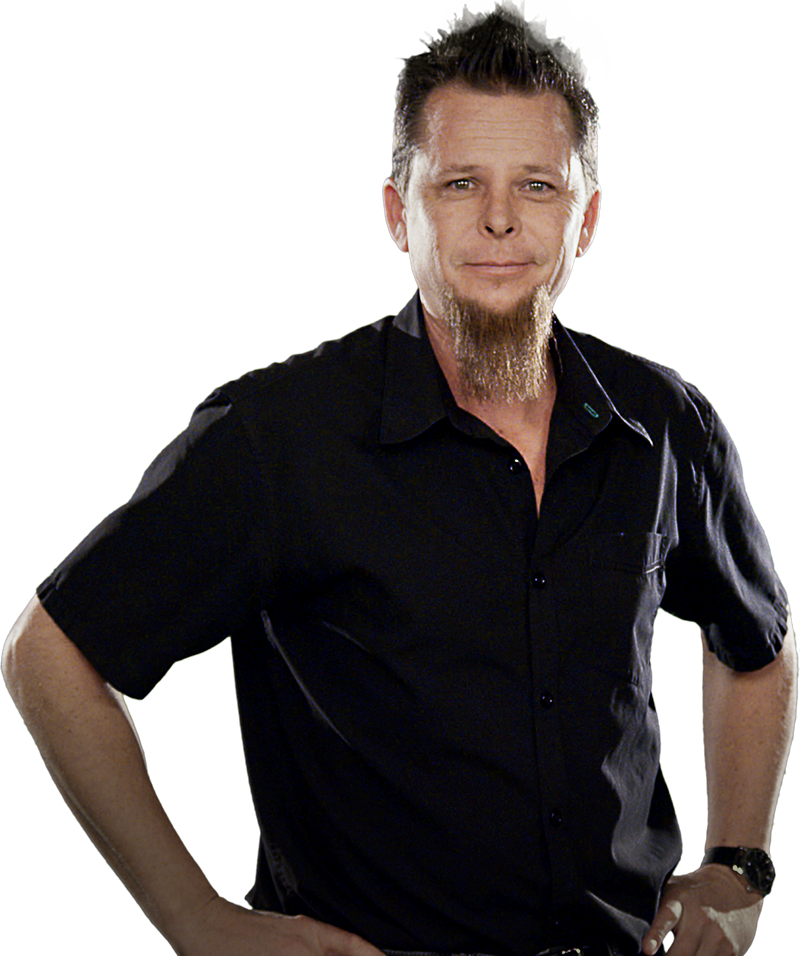
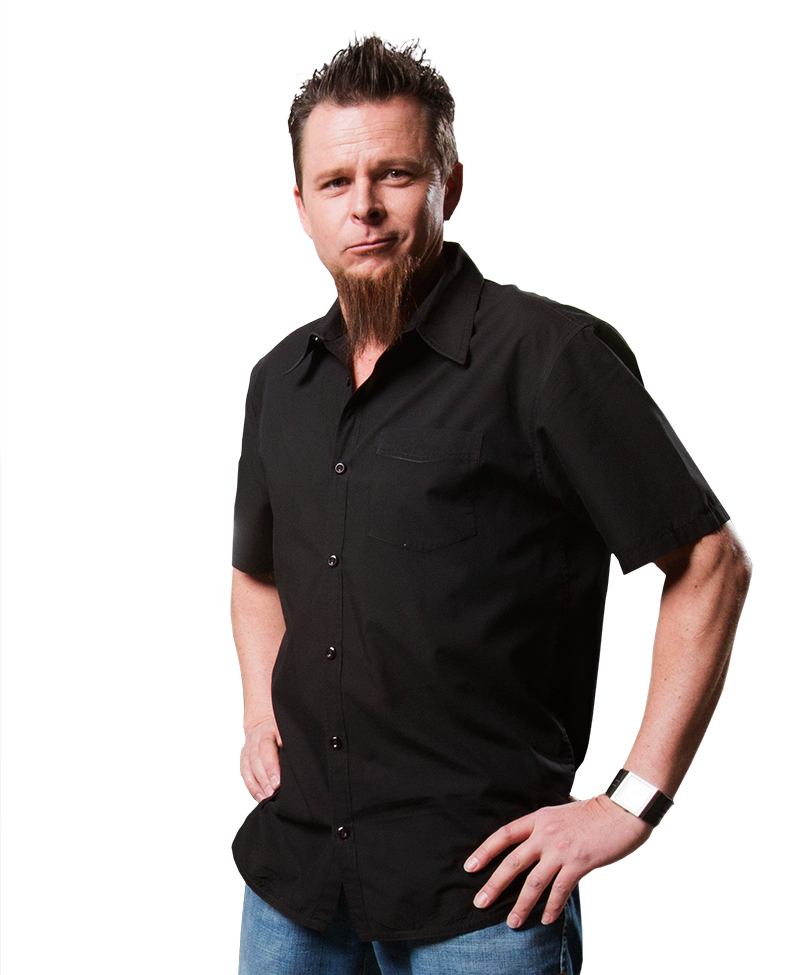
New talent images, proofing updates

diff --git a/index.html b/index.html
@@ -67,7 +67,7 @@
                 <p><span class="blue"></span> Smart Drivers</p>
               </div>
             </div>
-            <p class="disclaimer">*Velocity will donate $1 to MADD for each pledge up to $10,000.</p>
+            <p class="disclaimer">*Velocity will donate $1 to MADD for each pledge, up to $10,000.</p>
           </div>
         </div>
 
@@ -93,14 +93,14 @@
           </div>
           <div id="talent-quote">
             <p>&ldquo;Every 52 minutes, someone dies in an alcohol-related car crash. MADD is committed to end drunk driving.&rdquo;</p>
-            <cite><strong>Christy Lee,</strong> All Girls Garage</cite>
+            <cite><strong>Cristy Lee,</strong> All Girls Garage</cite>
             <a href="https://www.youtube.com/watch?v=6jiNS_4CEug" class="play-button" data-toggle="lightbox" data-width="1500"><i class="fa fa-play"></i></a>
             <div class="clearfix"></div>
           </div>
         </div>
         <div id="talent-3" style="display:none;">
           <div id="talent-image">
-            <img src="images/dave_kindig_optimized.png">
+            <img src="images/dave_kindig.png">
           </div>
           <div id="talent-quote">
             <p>&ldquo;You are 23 times more likely to have an accident while texting. Toyota Teen Drive 365 is educating the next generation of safe drivers.&rdquo;</p>
@@ -123,7 +123,7 @@
               <img src="images/velocity_logo_small.png" title="Velocity" data-sr>
             </p>
             <p class="large" data-sr>Velocity is committed to <strong>driving smart</strong> and eradicating drunk, drugged and distracted driving.</p>
-            <p class="small hidden-sm hidden-xs" data-sr>As America's most car, bike and driver-obsessed cable network, Velocity is 100% committed to eradicating the 3D’s from our nation's highways and byways. The only way to drive safely is focused and sober. In a word, smart. If you agree, please pledge to Drive Smart. For your benefit and for the well being of drivers everywhere.</p>
+            <p class="small hidden-sm hidden-xs" data-sr>As America’s most car-, bike-, and driver-obsessed cable network, Velocity is 100% committed to eliminating the 3 Ds from our nation’s highways and byways. The only way to drive safely is focused and sober. In a word, smart. If you agree, please pledge to Drive Smart. For your benefit and for the well-being of drivers everywhere.</p>
             <p class="text-center hidden-sm hidden-xs" data-sr>
               <a href="#pledge" class="anchor" data-target="#slide-3-container"><img src="images/take_the_pledge_blue.png" title="Take the Pledge"></a>
             </p>
@@ -214,7 +214,7 @@
           </div>
         </div>
         <p class="breathe-top text-center pledge-amount">With each pledge, Velocity will donate <sup>$</sup>1 to MADD.*</p>
-        <p class="disclaimer text-center">*Velocity will donate $1 to MADD for each pledge up to $10,000.</p>
+        <p class="disclaimer text-center">*Velocity will donate $1 to MADD for each pledge, up to $10,000.</p>
         <p class="text-center breathe-top"><a href="#" id="form-submit"><img src="images/pledge_button.png" title="I want to pledge!"></a></p>
         <p class="text-center breathe-top"><a href="http://www.madd.org/"><img src="images/madd_thanks_logo.png" title="madd"></a>&nbsp;&nbsp;&nbsp;&nbsp;&nbsp;&nbsp;&nbsp;&nbsp;&nbsp;&nbsp;<a href="http://www.toyota.com/teendrive365/"><img src="images/td365_thanks_logo.png" class="padding-top" title="TeenDrive365"></a></p>
       </div>
@@ -230,13 +230,13 @@
               <a target="_blank" href="https://www.facebook.com/sharer/sharer.php?p[url]=http%3A%2F%2Fwww.velocitydrivesmart.com%2F&amp;p[summary]=I%20took%20the%20pledge%20to%20DRIVE%20SMART!%20Velocity%20is%20committed%20to%20driving%20smart%20and%20eradicating%20drunk%2C%20drugged%20and%20distracted%20driving.%20Please%20take%20the%20pledge%20too.%20%23DriveSmart"><i class="fa fa-facebook"></i></a>
               <a target="_blank" href="mailto:?&subject=I took the pledge to #DRIVESMART!&amp;body=I%20took%20the%20pledge%20to%20DRIVE%20SMART!%20Velocity%20is%20committed%20to%20driving%20smart%20and%20eradicating%20drunk,%20drugged%20and%20distracted%20driving.%20Please%20take%20the%20pledge%20too.%0A%0Ahttp://www.velocitydrivesmart.com/"><i class="fa fa-envelope-o"></i></a>
             </p>
-            <p class="text-center explore-partners breathe-top">Want to go that extra mile? Take a few minutes and explore our partner’s websites. There are many ways to get involved and make a difference.</p>
+            <p class="text-center explore-partners breathe-top">Want to go that extra mile? Take a few minutes and explore our partners' websites. There are many ways to get involved and make a difference.</p>
           </div>
         </div>
         <div class="row sponsors breathe-top">
           <div class="col-md-3 col-md-offset-3 padding-right">
             <p class="text-center"><img src="images/madd_thanks_logo.png" title="madd"></p>
-            <p>Mothers Against Drunk Driving exists to end drunk driving, help fight drugged driving, support the victims of these violent crimes and prevent underage drinking. You can help by volunteering, advocating for change at the state level or taking part in a MADD Walk. With your help, there will be no more victims. <a href="http://www.madd.org/">Visit site &raquo;</a></p>
+            <p>Mothers Against Drunk Driving exists to end drunk driving, help fight drugged driving, support the victims of these violent crimes and prevent underage drinking. You can help by volunteering, advocating for change at the state level or taking part in a MADD walk. With your help, there will be no more victims. <a href="http://www.madd.org/">Visit site &raquo;</a></p>
           </div>
           <div class="col-md-3 padding-left center-line">
             <p class="text-center"><img src="images/td365_thanks_logo.png" class="padding-top" title="TeenDrive365"></p>
@@ -268,6 +268,7 @@
     <script src="stylesheets/ekko-lightbox.min.js"></script>
     <script type="text/javascript">
       window.sr = new scrollReveal();
+      var talentScroller;
       $(function(){
         var updateFullHeightContainers = function(){
           var winHeight = $(window).height();
@@ -309,7 +310,7 @@
           });
         });
 
-        setInterval(function(){
+        talentScroller = setInterval(function(){
           if ($("#talent-1").is(':visible')) {
             $("#talent-1").fadeOut(800, function(){
               $("#talent-2").fadeIn(800);

diff --git a/style.css b/style.css
@@ -191,7 +191,7 @@ footer {
     overflow-x: hidden; }
   #slide-1 #talent-image {
     position: absolute;
-    bottom: 0;
+    bottom: 1px;
     z-index: 3;
     right: 25%; }
   #slide-1 #talent-quote {
@@ -297,7 +297,8 @@ footer {
     color: #959595;
     display: block; }
   #slide-3 input[type=checkbox] {
-    margin-top: -8px; }
+    margin-top: -8px;
+    width: 10%; }
   #slide-3 .checkbox label {
     opacity: 0.4;
     font-size: 12px;
@@ -512,7 +513,7 @@ footer {
 
   #slide-1 #talent-image {
     max-width: 50%;
-    bottom: -10px; }
+    bottom: 1px; }
 
   #slide-1 .sponsor-logos {
     display: none; }
@@ -554,7 +555,7 @@ footer {
     margin-top: 0; }
 
   #slide-1 #talent-image {
-    bottom: -10px;
+    bottom: 1px;
     max-width: 65%; }
 
   #slide-1-container .footer {

diff --git a/style.scss b/style.scss
@@ -251,7 +251,7 @@ footer {
   }
   #talent-image {
     position:absolute;
-    bottom:0;
+    bottom:1px;
     z-index:3;
     right:25%;
   }
@@ -381,6 +381,7 @@ footer {
   }
   input[type=checkbox] {
     margin-top:-8px;
+    width:10%;
   }
   .checkbox label {
     opacity:0.4;
@@ -648,7 +649,7 @@ footer {
   }
   #slide-1 #talent-image {
     max-width:50%;
-    bottom:-10px;
+    bottom:1px;
   }
   #slide-1 .sponsor-logos {
     display:none;
@@ -696,7 +697,7 @@ footer {
     margin-top:0;
   }
   #slide-1 #talent-image {
-    bottom:-10px;
+    bottom:1px;
     max-width:65%;
   }
   #slide-1-container .footer {
